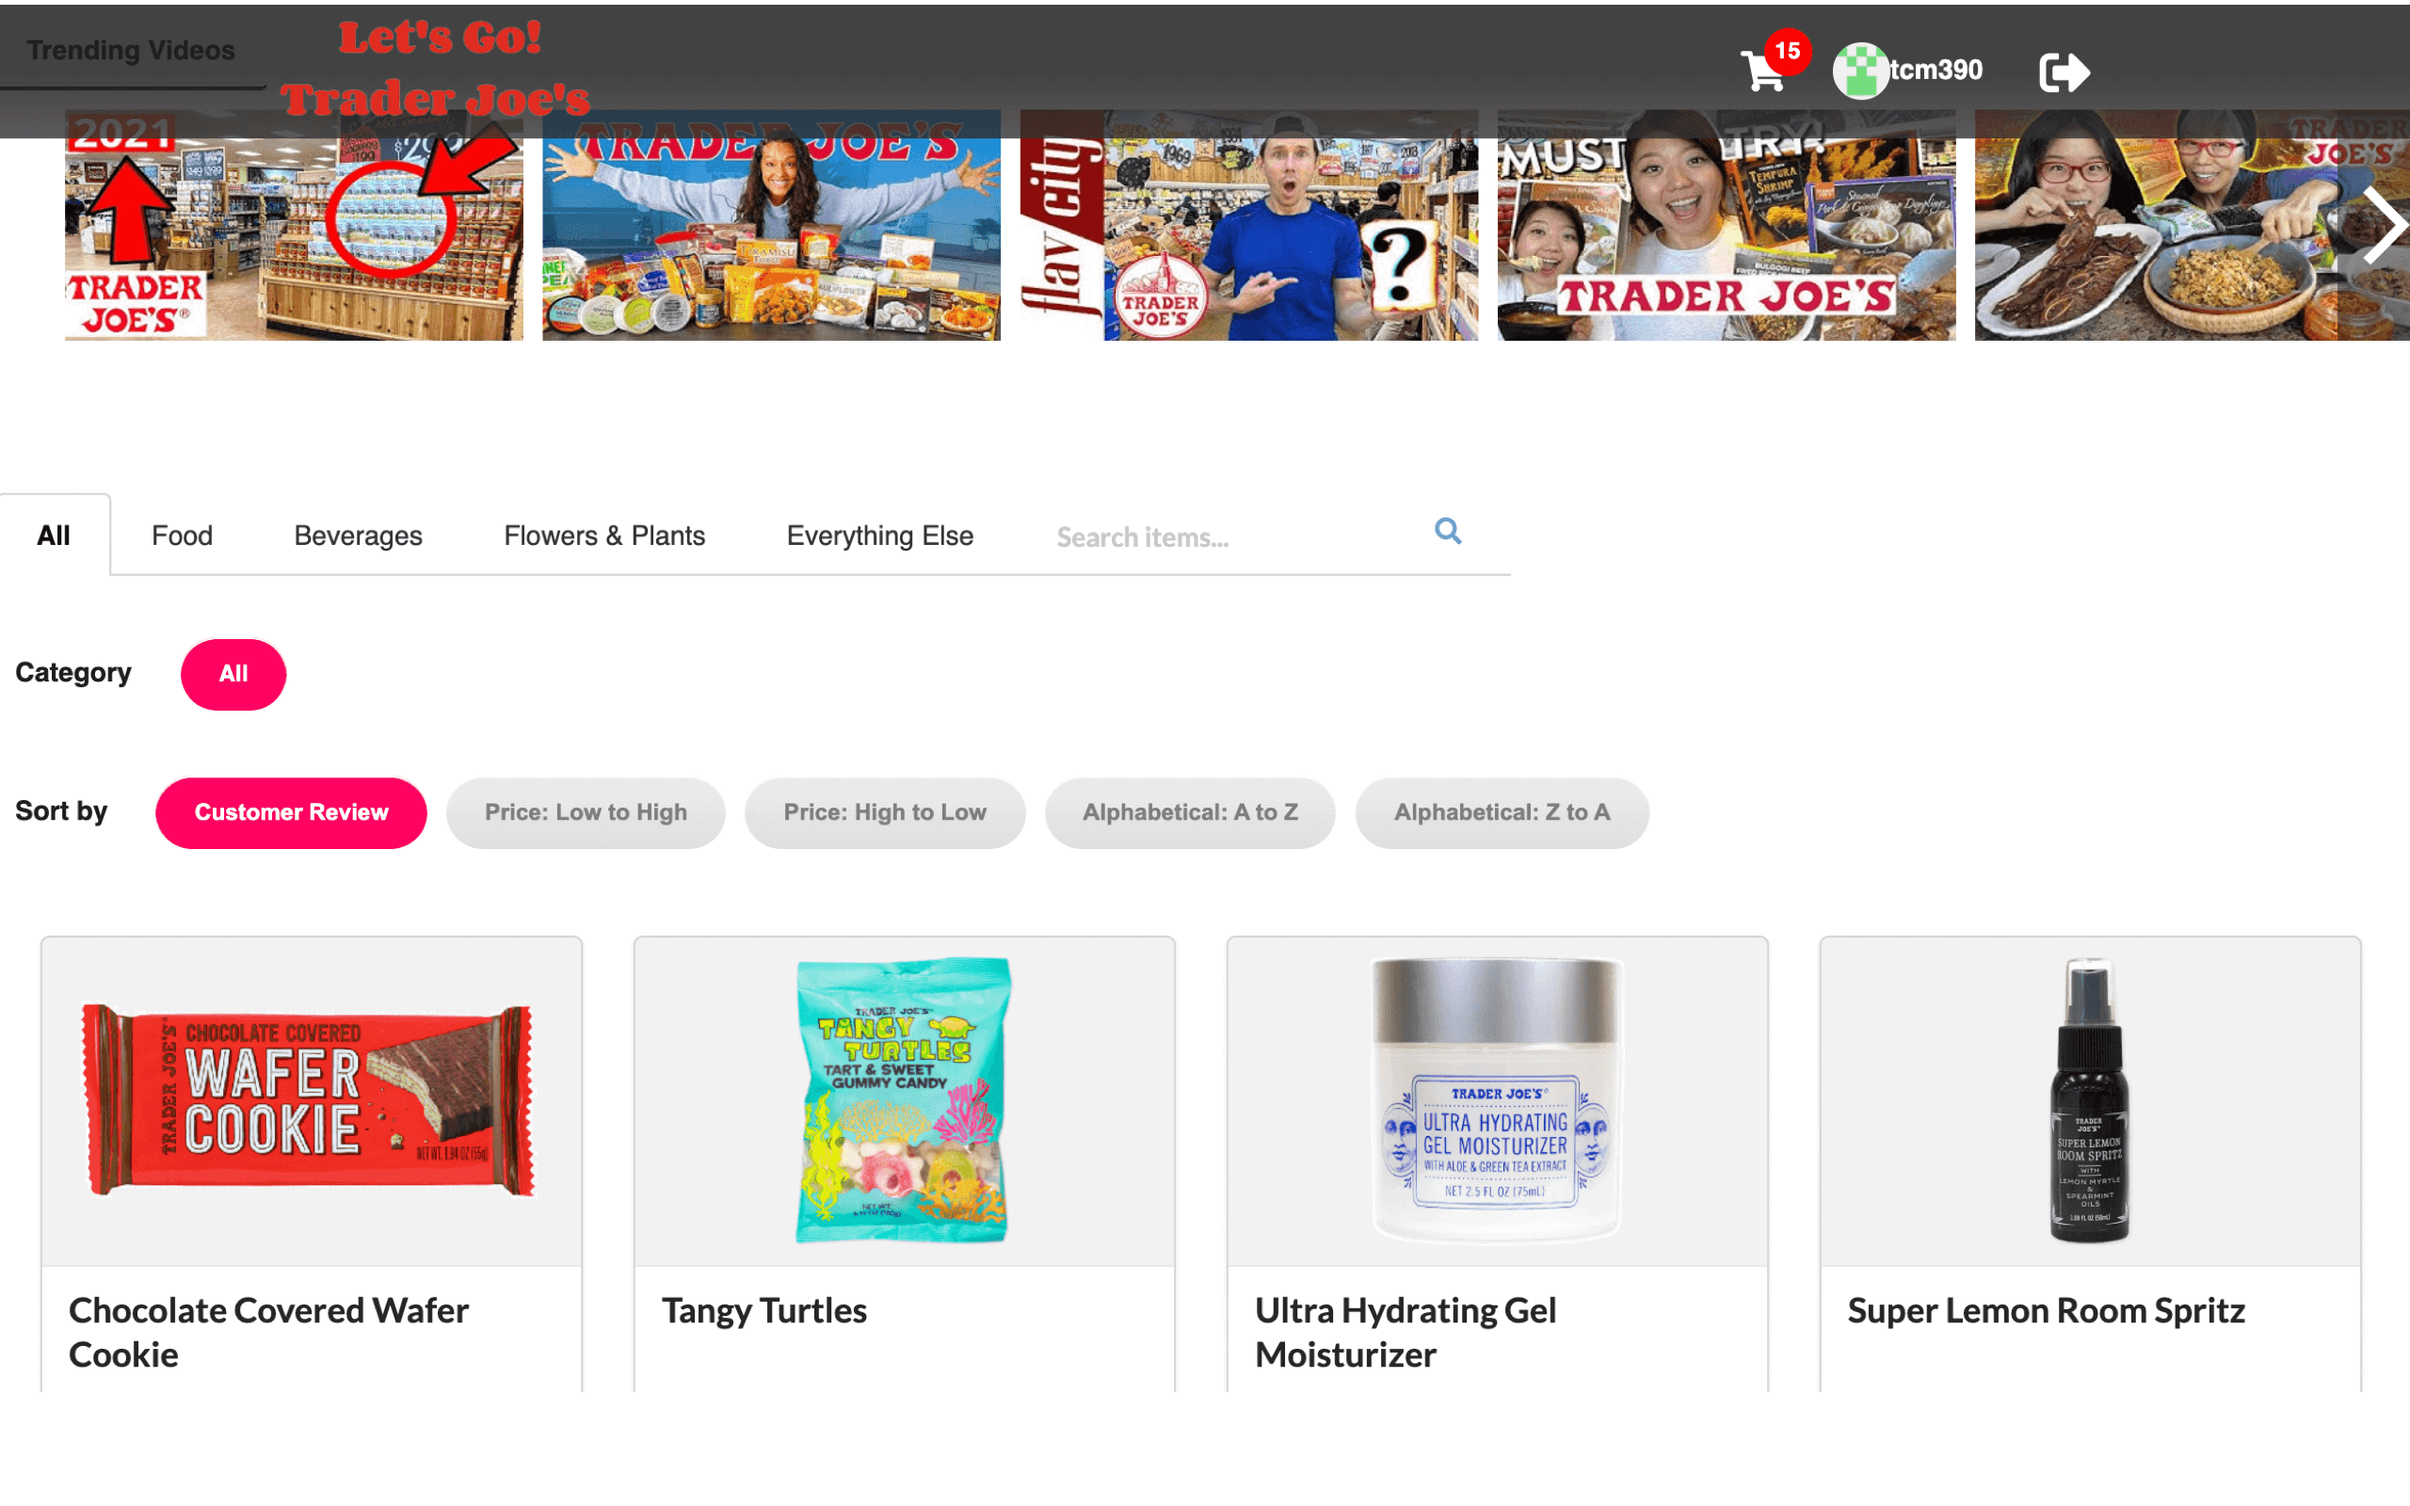
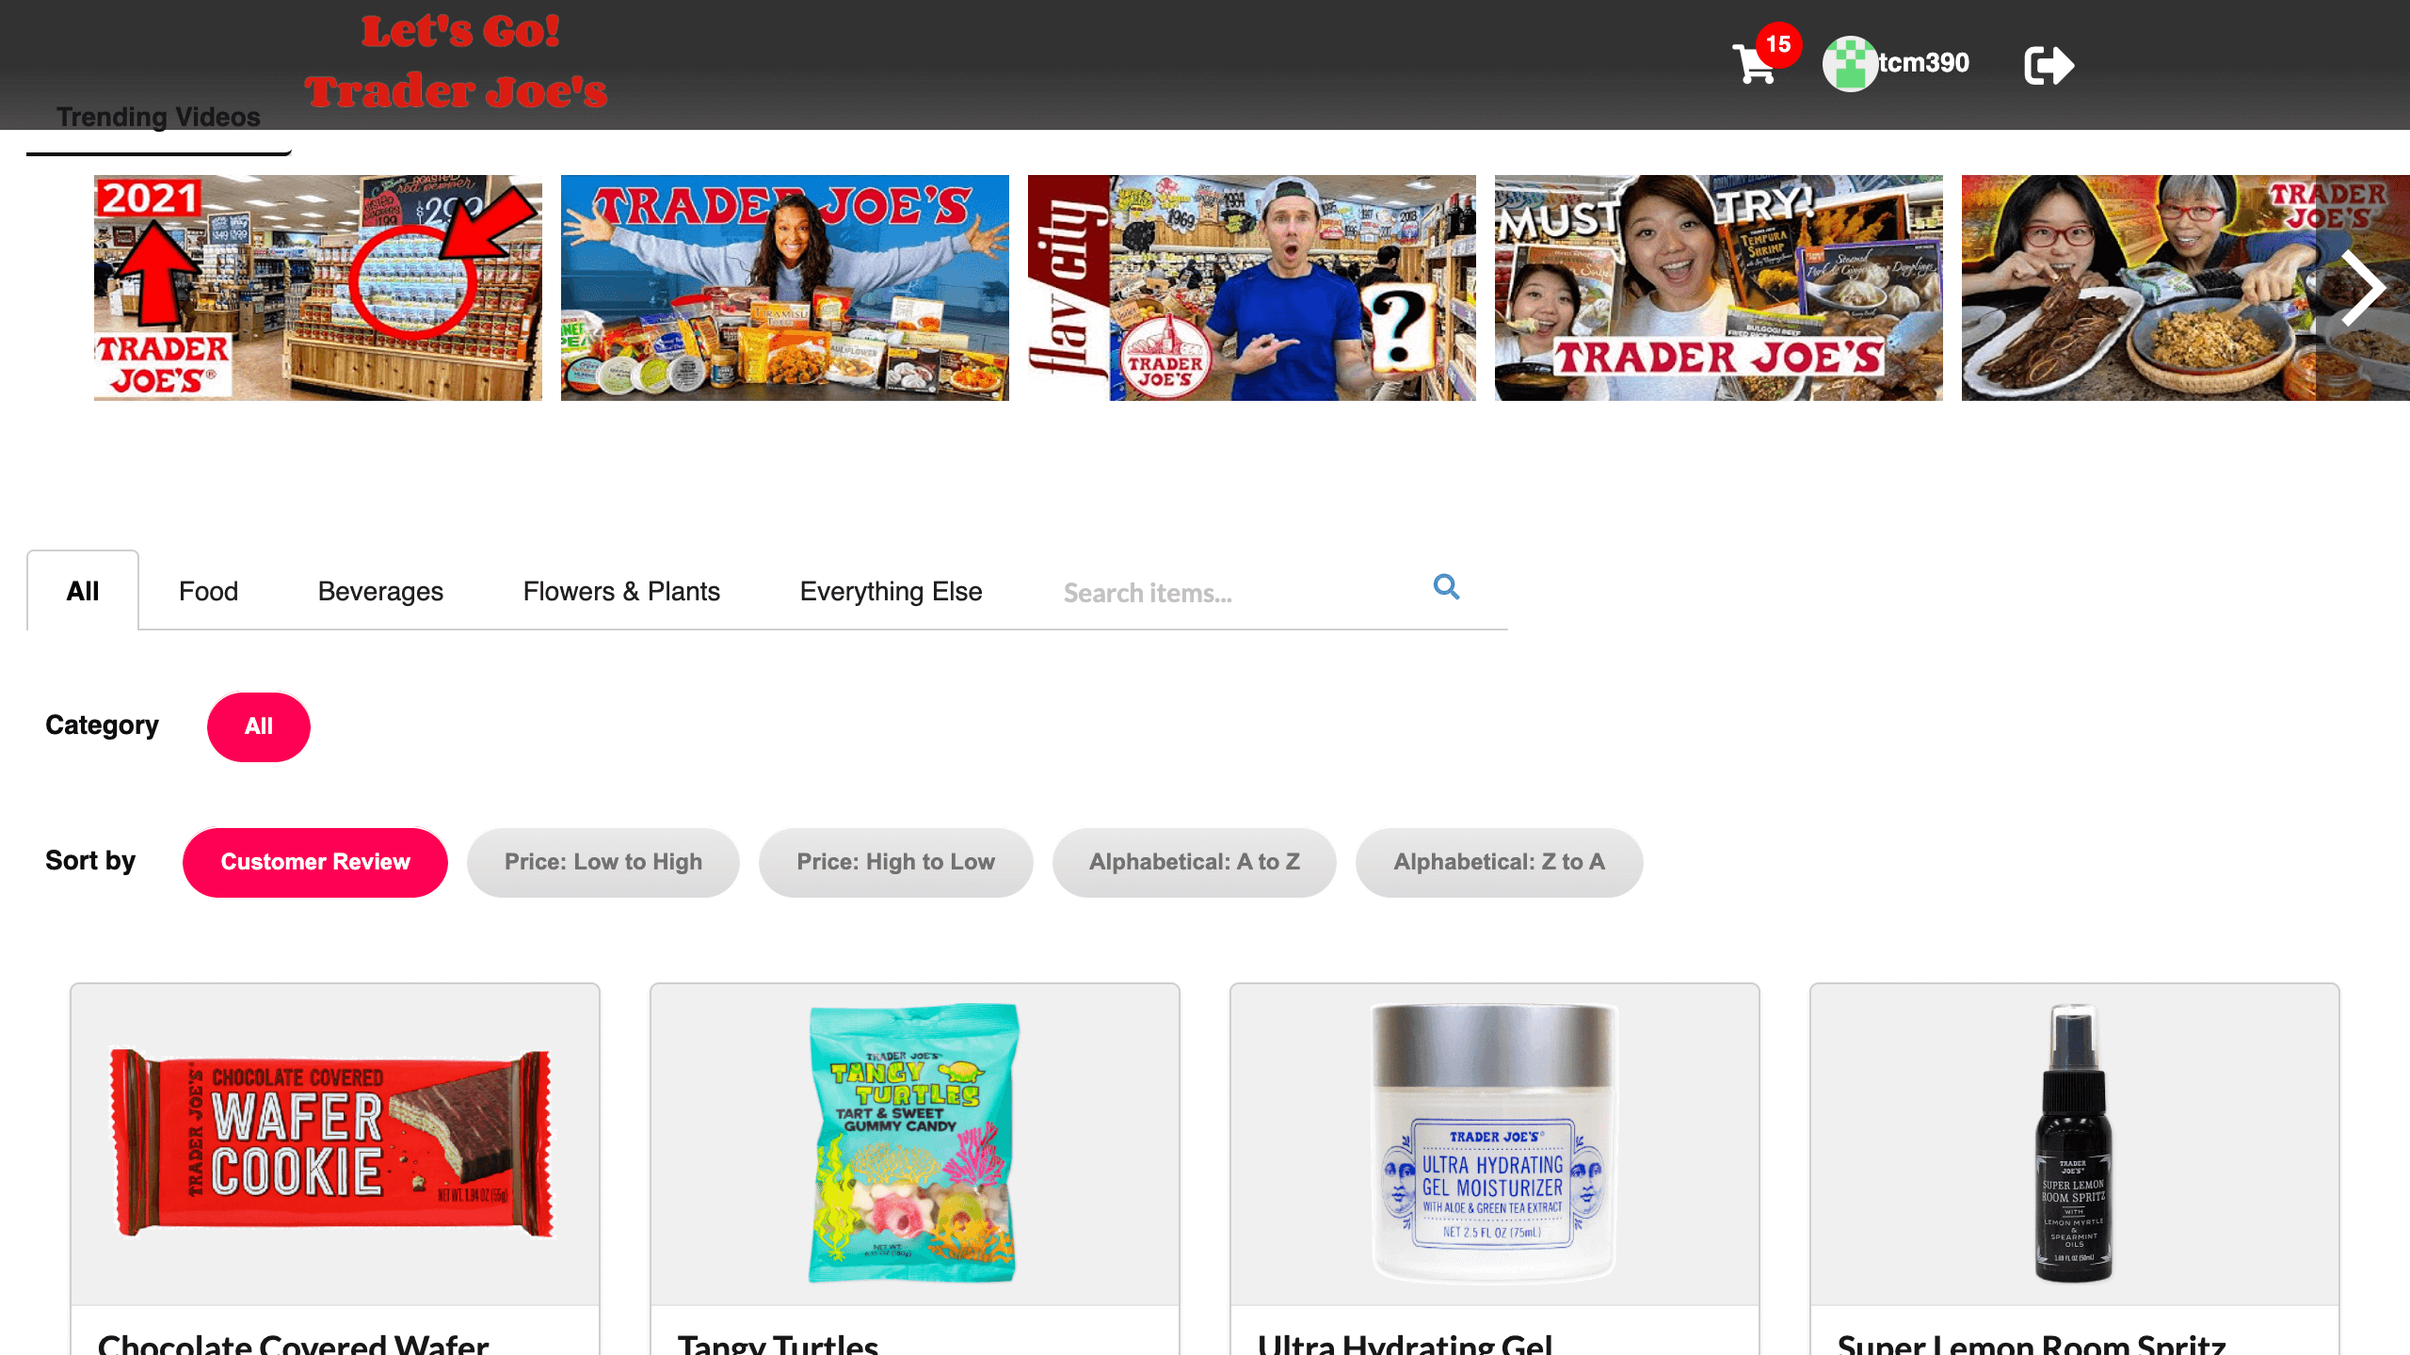
project mobile modify

diff --git a/client/src/Components/Projects/ProjectCarousel.css b/client/src/Components/Projects/ProjectCarousel.css
@@ -3,7 +3,7 @@
 }
 
 .project-carousel-section{
-    padding: 450px 0 80px;
+    padding: 470px 0 80px;
     background-image: url('../../assets/project-bg.jpg');
     background-position: center;
     background-attachment: fixed;
@@ -20,7 +20,7 @@
     margin-bottom: 20px;
 }
 .project-item{
-    height: 430px;
+    height: 440px;
     width: 300px;
     background-color: white;
     cursor: pointer;
@@ -62,9 +62,9 @@ a{
 
 .project-img{
     display: block;
-    margin: 10px;
-    width: auto;
-    height: 150px;
+    margin: auto;
+    width: 95%;
+    height: 40%;
     border-radius: 5px;
 }
 
@@ -100,7 +100,8 @@ a{
 
 @media screen and (max-width: 810px){
     .project-item img{
-        transform: scale(0.8);
+        /* transform: scale(0.8); */
+        /* width: 90%; */
     }
     .project-item h4{
         transform: scale(0.8);
@@ -111,8 +112,11 @@ a{
 }
 
 @media screen and (max-width: 375px){
+    .project-item{
+        transform: scale(0.7);
+    }
     .project-item img{
-        transform: scale(0.6);
+        /* transform: scale(0.6); */
     }
     .project-item h4{
         transform: scale(0.6);

diff --git a/client/src/Components/Projects/ProjectCarousel.js b/client/src/Components/Projects/ProjectCarousel.js
@@ -44,7 +44,7 @@ export default function ProjectCarousel(props) {
                         />
                         <h4>Let's Go! Trader Joe's</h4>
                         <div class="project-des-container">
-                            <span className="des">Let's Go! Trader Joe's is a review website. In this website, you can find what's the newest product in this season, haul videos and rating from true customer's reviews.  </span>
+                            <span className="des">In this website, you can find what's the newest product in this season, haul videos and rating from true customer's reviews.  </span>
                             <span className="techUsed">React JS / Redux / Node.js / Semantic UI / MongoDB / RESTful API / beautiful soup</span>
                         </div>
 
